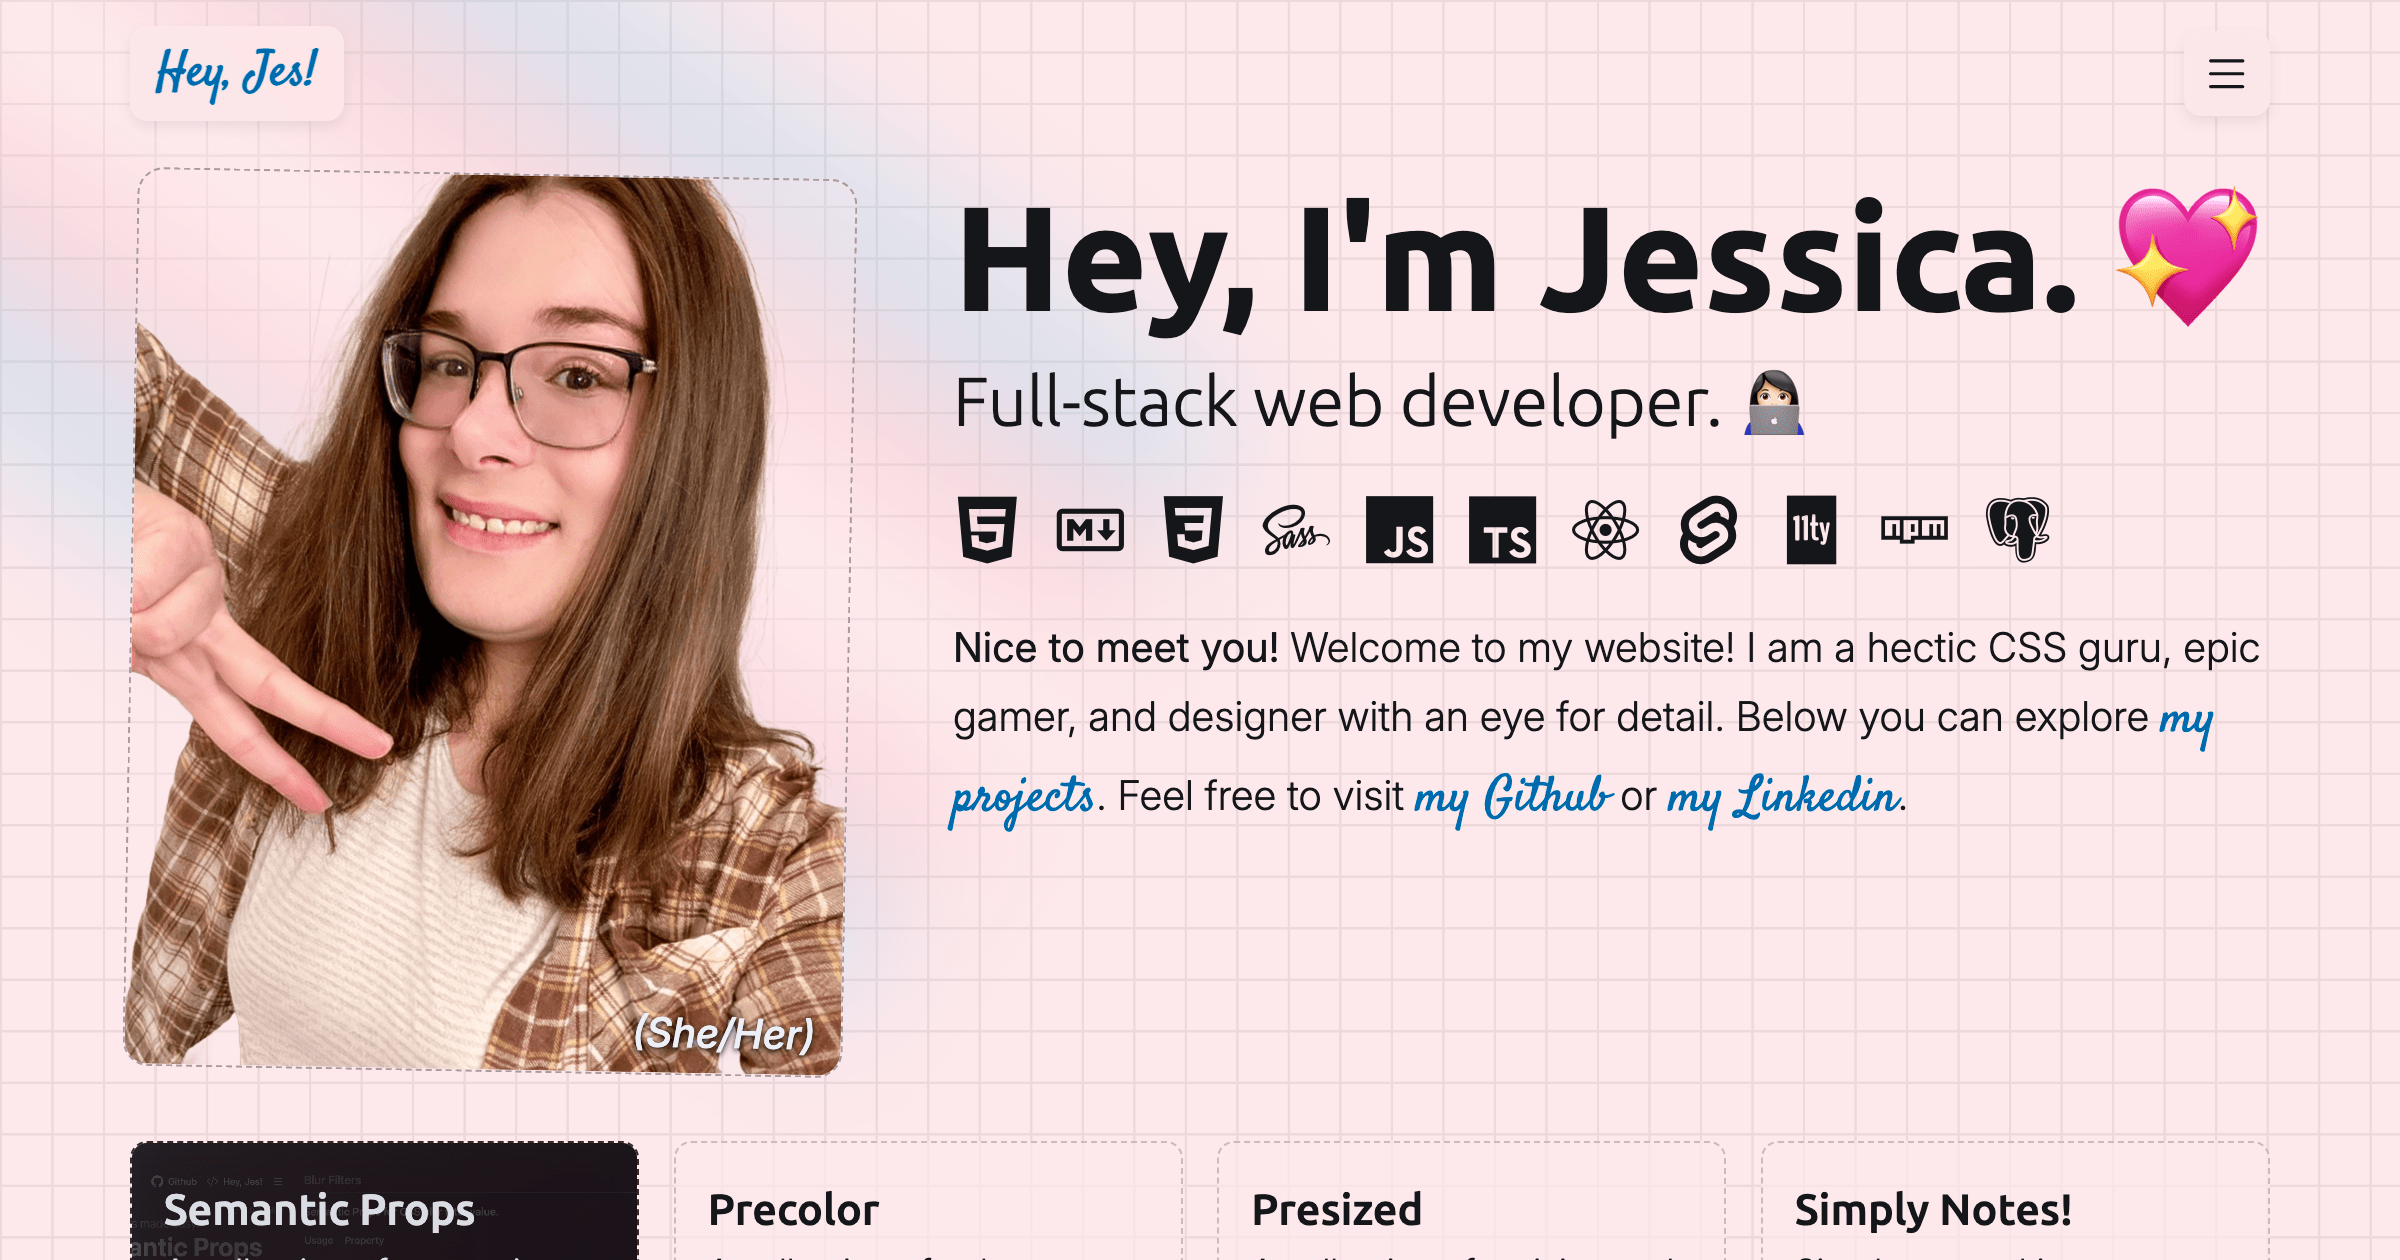
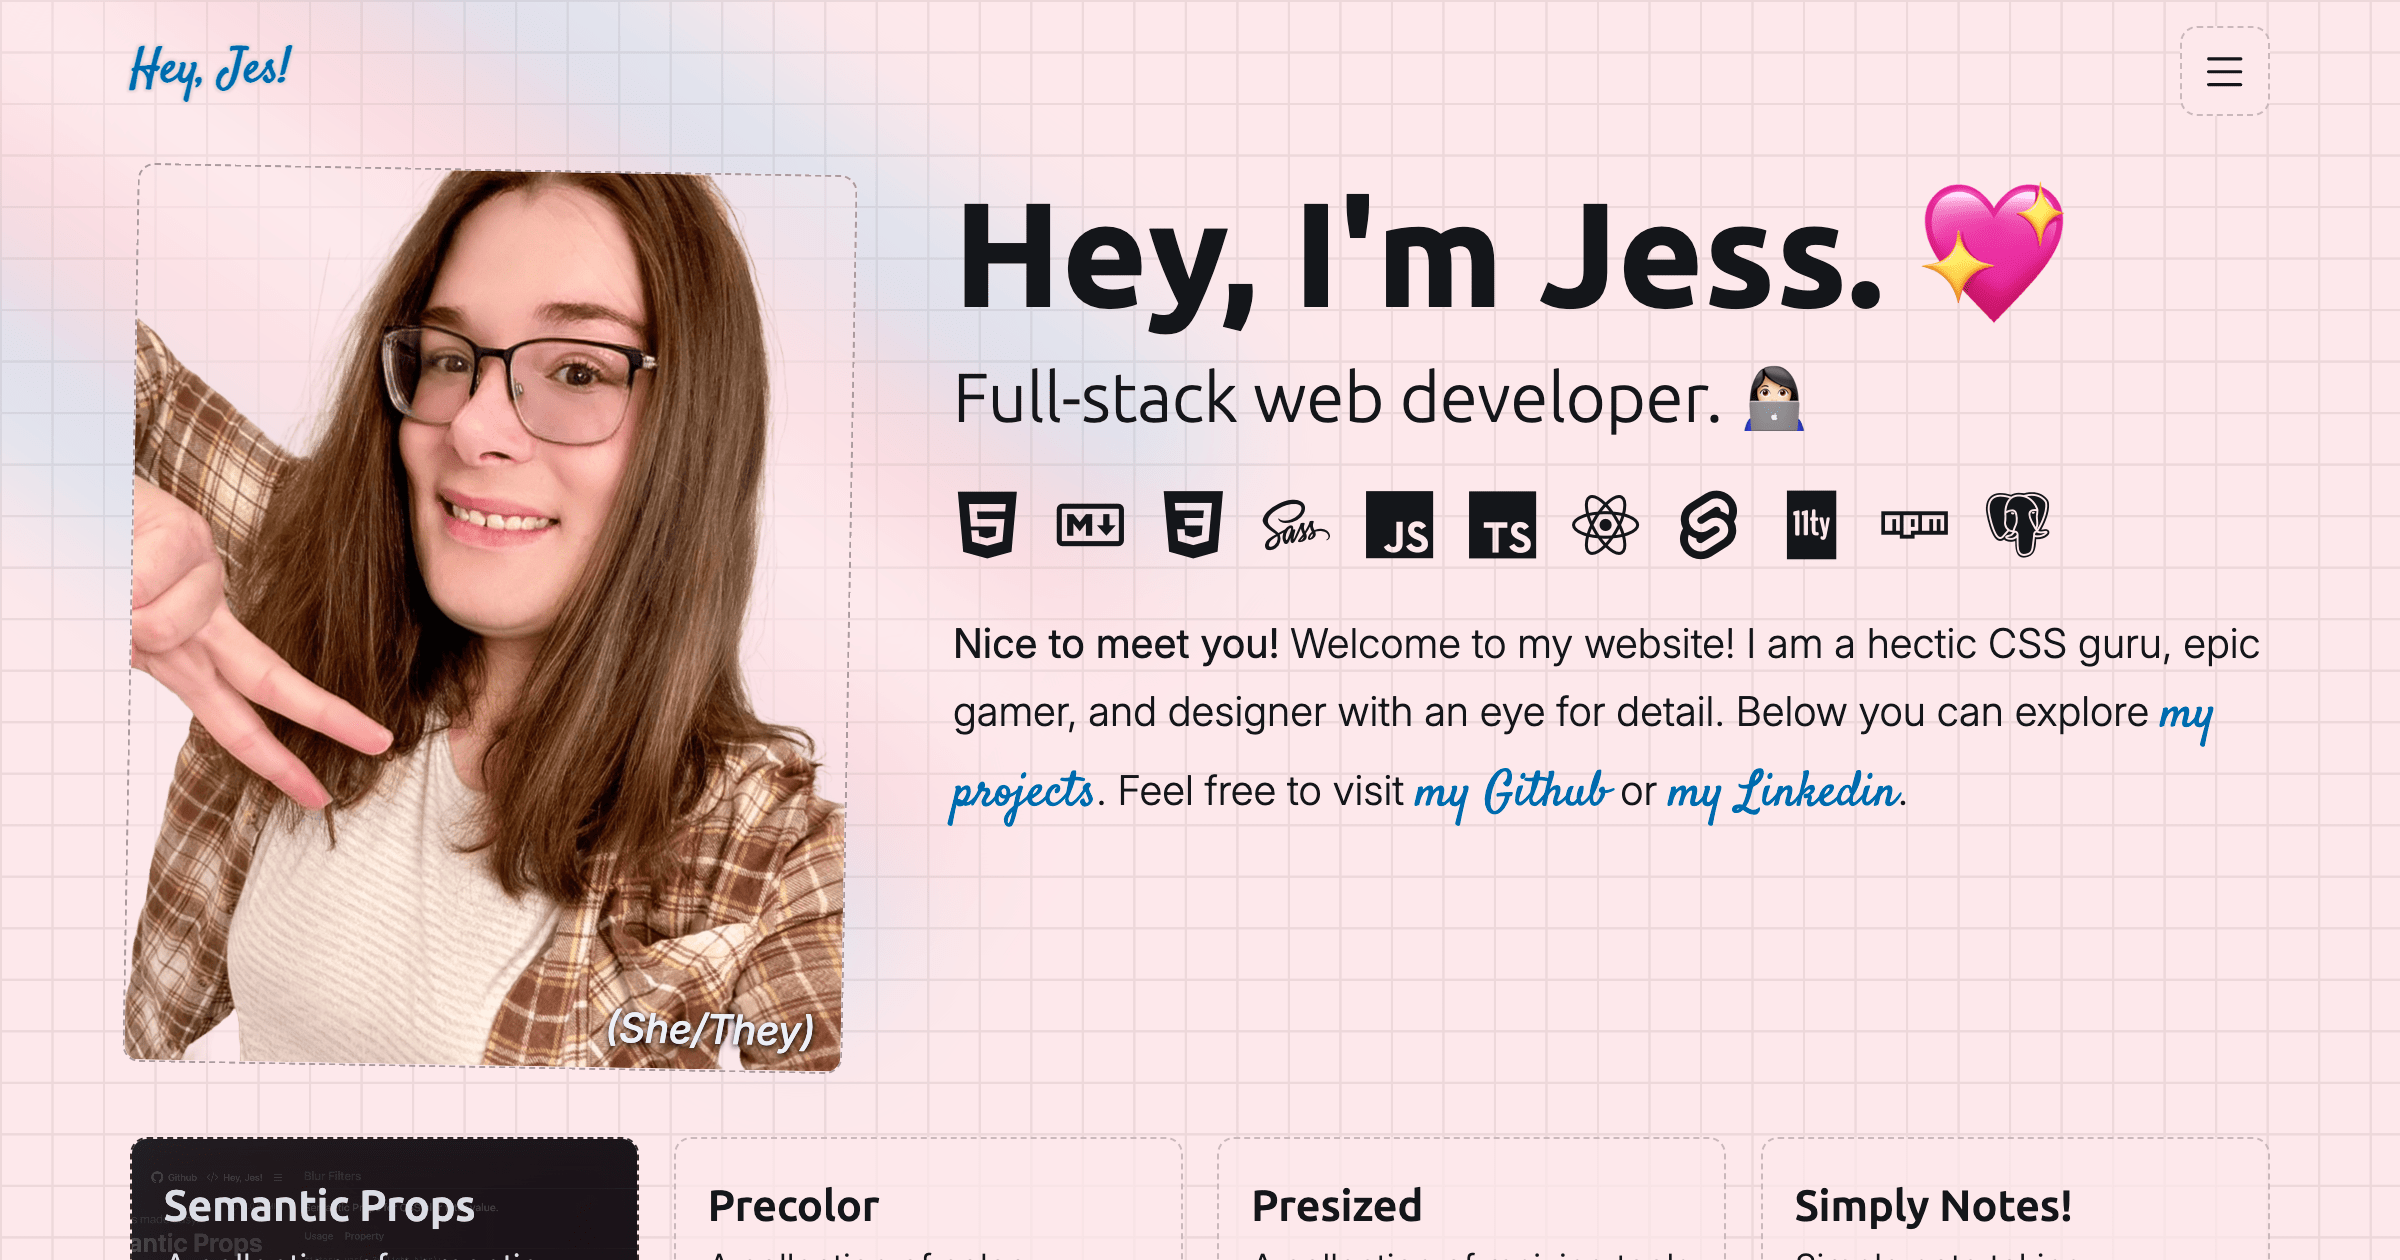
Adjusted website design.

diff --git a/src/components/Header.module.css b/src/components/Header.module.css
@@ -19,16 +19,14 @@
 .title {
 	display: inline-block;
 	white-space: nowrap;
+	text-shadow:
+		-1px -1px 1px var(--primary-100-700),
+		1px -1px 1px var(--primary-100-700),
+		-1px 1px 1px var(--primary-100-700),
+		1px 1px 1px var(--primary-100-700);
 	font-size: var(--x-large-font);
 	font-family: var(--accent-font);
 	line-height: var(--line-short);
-	border-radius: var(--2x-small-size);
-	background-color: var(--primary-50-700);
-	background-color: oklch(from var(--primary-50-700) l c h / var(--3x-high-opacity));
-	backdrop-filter: var(--heavy-blur) var(--high-saturation);
-	filter: var(--x-light-shadow);
-	padding-block: var(--2x-small-size);
-	padding-inline: var(--x-small-size);
 	margin-block: 0;
 	margin-inline-end: auto;
 }
@@ -39,21 +37,17 @@
 	appearance: none;
 	font-size: var(--medium-size);
 	font-weight: var(--regular-font);
-	border: none;
+	border: 1px var(--border-style) var(--primary-200-600);
 	border-radius: var(--2x-small-size);
 	background-image: none;
 	background-color: var(--primary-50-700);
-	background-color: oklch(from var(--primary-50-700) l c h / var(--3x-high-opacity));
-	backdrop-filter: var(--heavy-blur) var(--high-saturation);
 	color: inherit;
 	padding: var(--2x-small-size);
 	margin: 0;
 	cursor: pointer;
 	transition: scale var(--fast-time) var(--ease-out);
-	filter: var(--x-light-shadow);
 	&:active {
 		background-color: var(--primary-100-600);
-		background-color: oklch(from var(--primary-100-600) l c h / var(--3x-high-opacity));
 	}
 }
 
@@ -106,7 +100,7 @@
 	inset: 0;
 	background-color: oklch(0 0 0 / var(--2x-low-opacity));
 	background-color: oklch(from var(--primary-500-900) l c h / var(--2x-low-opacity));
-	backdrop-filter: var(--3x-light-blur);
+	backdrop-filter: var(--2x-light-blur);
 	transition: opacity var(--fast-time) var(--ease-out);
 	cursor: pointer;
 	.container:not(:has(.navigation:focus-within)) & {

diff --git a/src/pages/Homepage.module.css b/src/pages/Homepage.module.css
@@ -10,9 +10,9 @@
 	display: block;
 	width: min(35cqi, var(--x-small-container));
 	background-color: var(--primary-50-800);
-	background-color: oklch(from var(--primary-50-800) l c h / var(--2x-low-opacity));
-	border-radius: var(--x-small-size);
-	border: 1px var(--border-style) var(--primary-300-600);
+	background-color: oklch(from var(--primary-50-800) l c h / var(--low-opacity));
+	border-radius: var(--2x-small-size);
+	border: 1px var(--border-style) var(--primary-300-500);
 	margin-block-start: var(--3x-small-size);
 	margin-block-end: clamp(var(--x-small-size), var(--responsive-size), var(--large-size));
 	margin-inline-end: clamp(var(--medium-size), var(--responsive-size), var(--x-large-size));

diff --git a/src/pages/Homepage.tsx b/src/pages/Homepage.tsx
@@ -32,9 +32,9 @@ export default function Homepage() {
 				<header className={styles.intro}>
 					<div className={styles.profile}>
 						<img className={styles.profileImage} loading="lazy" src="/profile.png" alt="Profile picture of myself." />
-						<span className={styles.pronouns}>(She/Her)</span>
+						<span className={styles.pronouns}>(She/They)</span>
 					</div>
-					<h1 className={styles.title}>Hey, I'm Jessica.&nbsp;💖</h1>
+					<h1 className={styles.title}>Hey, I'm Jess.&nbsp;💖</h1>
 					<h2 className={styles.subtitle}>Full-stack web developer.&nbsp;👩🏻💻</h2>
 				</header>
 				<span className={styles.skills}>

diff --git a/src/components/Projects.module.css b/src/components/Projects.module.css
@@ -26,7 +26,7 @@
 	justify-content: end;
 	container-type: inline-size;
 	border-radius: var(--2x-small-size);
-	border: 1px var(--border-style) var(--primary-200-700);
+	border: 1px var(--border-style) var(--primary-200-600);
 	background-color: var(--primary-50-800);
 	background-color: oklch(from var(--primary-50-800) l c h / var(--high-opacity));
 	overflow: hidden;
